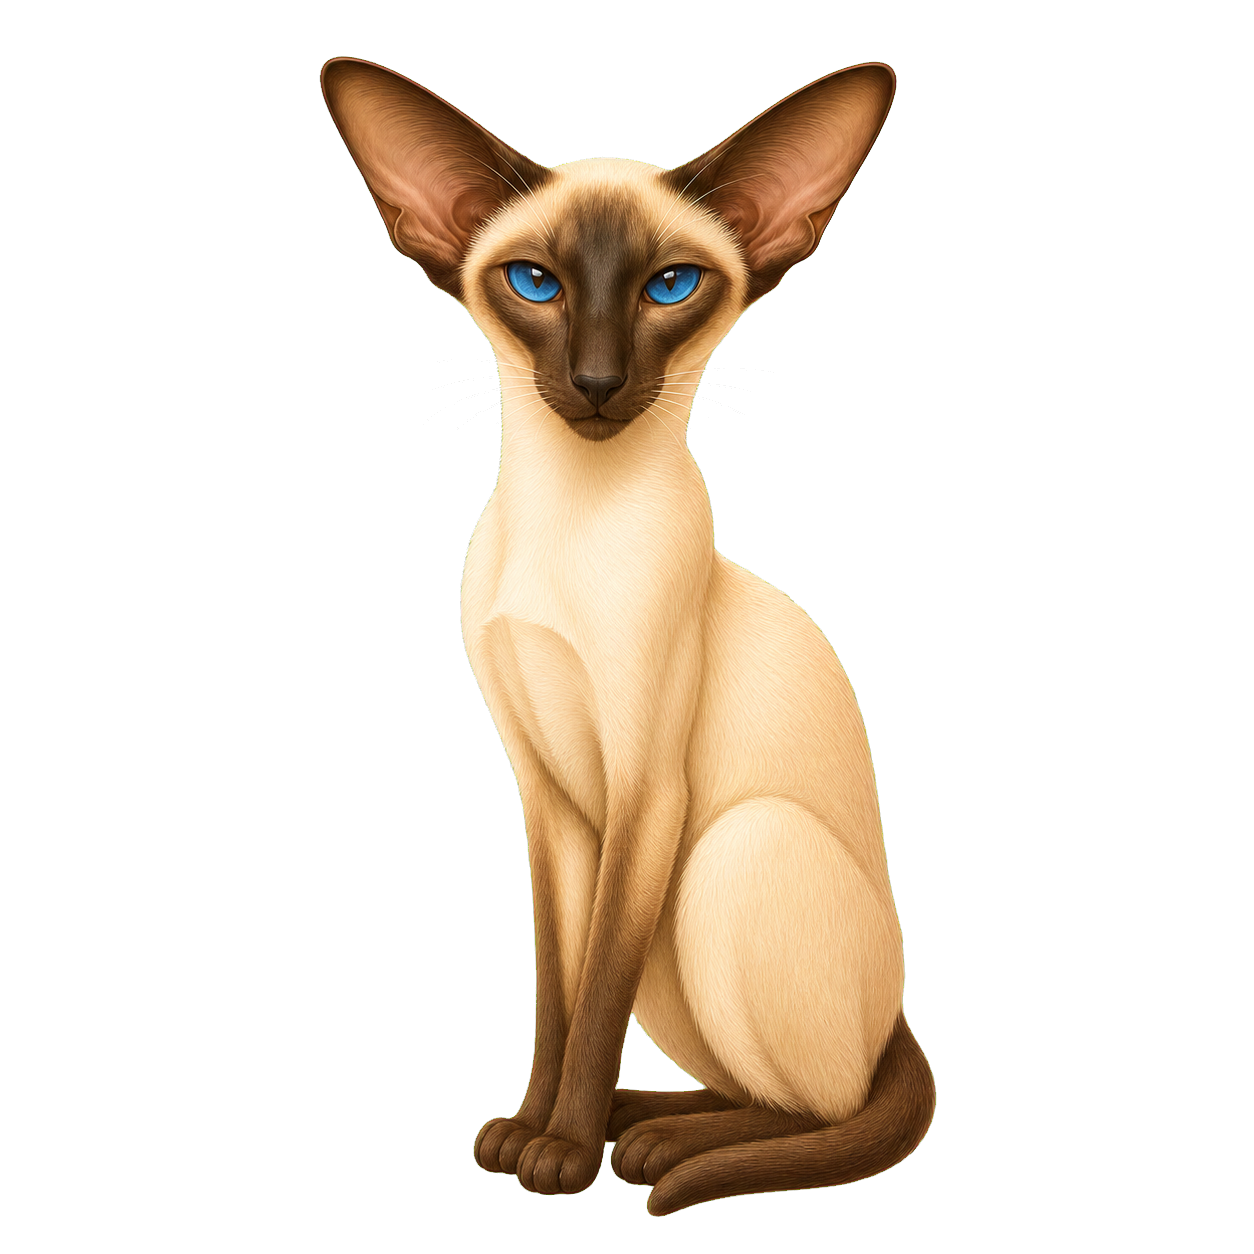
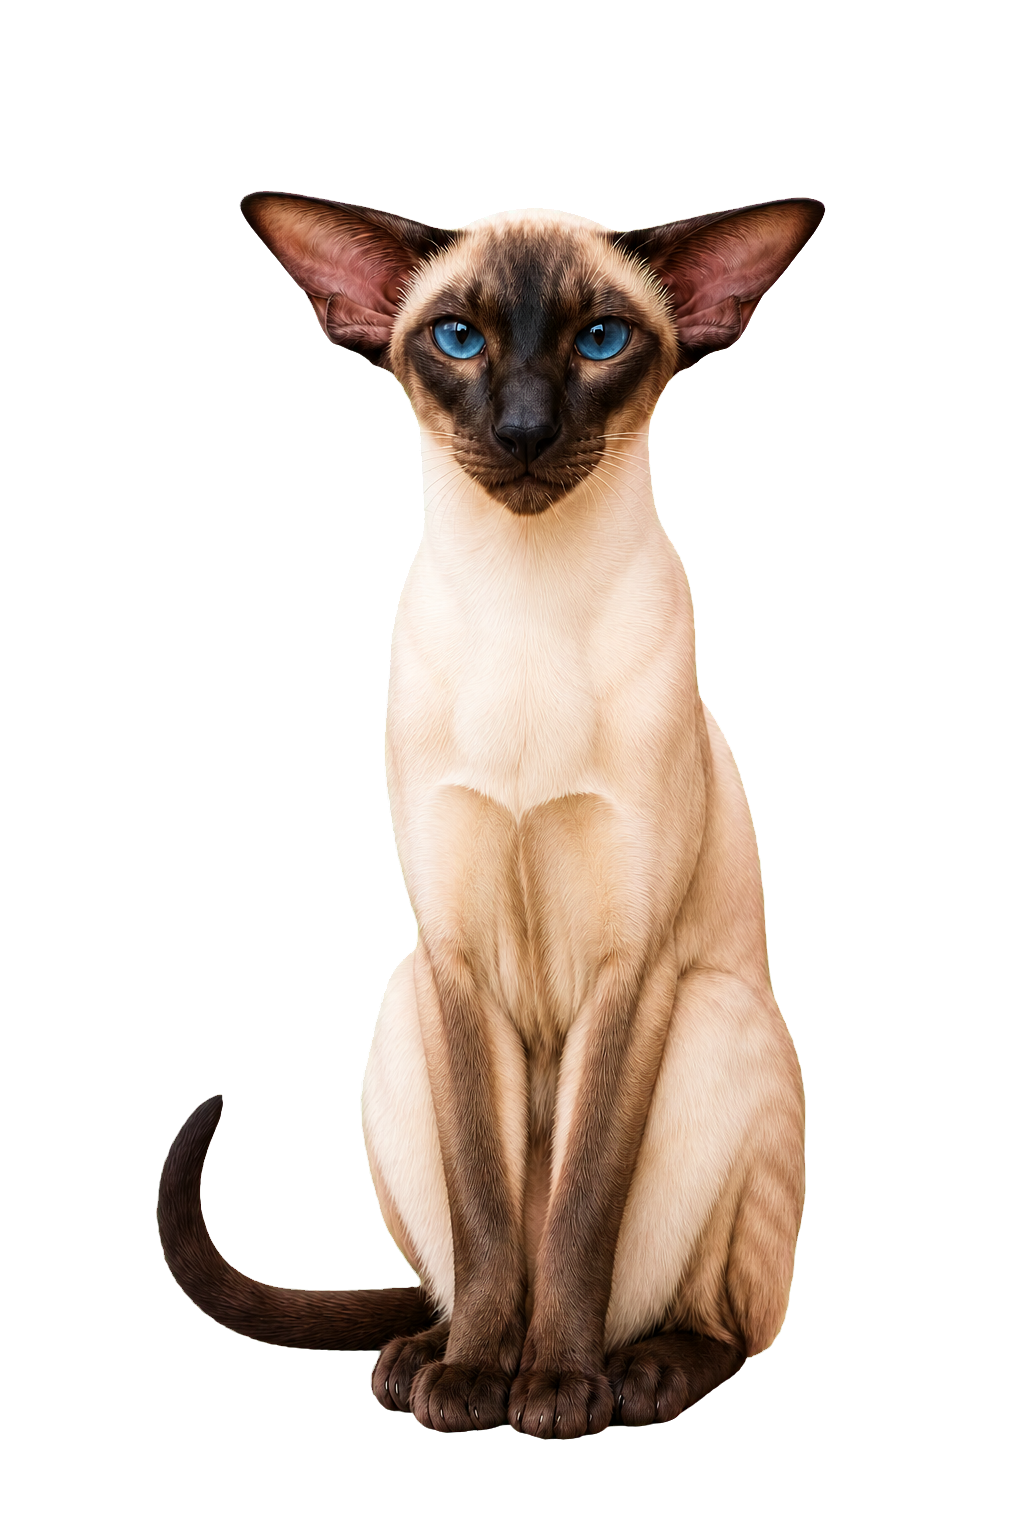
Update CatBreak page and download

Changed region(s): [[0.1562, 0.0311, 0.8125, 0.9641]]

diff --git a/catbreak/index.html b/catbreak/index.html
@@ -135,7 +135,7 @@
                     <article class="card"><div class="icon">▣</div><h3>大猫露脸</h3><p>休息时每个屏幕都会出现大大的猫咪和倒计时，提醒你真的该离开座位了。</p></article>
                     <article class="card"><div class="icon">↯</div><h3>随手召唤</h3><p>想主动休息时，可以从菜单栏把猫猫叫出来，提前给自己一个小空档。</p></article>
                     <article class="card"><div class="icon">⌫</div><h3>留好出口</h3><p>临时有事时可以中断休息，也可以按 Esc 或 Command + . 立刻回到电脑前。</p></article>
-                    <article class="card"><div class="icon">猫</div><h3>八只值班猫</h3><p>内置泰格、丽丽、大橘、Rose、冰冰、基基、牛牛、托托。今天想让谁来喊你，就在菜单里切换。</p></article>
+                    <article class="card"><div class="icon">猫</div><h3>九只值班猫</h3><p>内置泰格、丽丽、大橘、Rose、冰冰、基基、牛牛、托托、英俊。今天想让谁来喊你，就在菜单里切换。</p></article>
                     <article class="card"><div class="icon">⌘</div><h3>安静蹲栏</h3><p>没有 Dock 图标和主窗口，状态栏直接显示工作、休息、暂停和剩余时间。</p></article>
                 </div>
             </div>
@@ -153,7 +153,7 @@
         </section>
         <section id="cats">
             <div class="container">
-                <div class="note"><h2>一个 CatBreak，八只值班猫</h2><p>泰格、丽丽、大橘、Rose、冰冰、基基、牛牛、托托都住在同一个 App 里，今天谁上班，菜单里说了算。</p></div>
+                <div class="note"><h2>一个 CatBreak，九只值班猫</h2><p>泰格、丽丽、大橘、Rose、冰冰、基基、牛牛、托托、英俊都住在同一个 App 里，今天谁上班，菜单里说了算。</p></div>
                 <div class="cat-list" style="margin-top:18px">
                     <div class="cat-card"><div class="cat-avatar"><img src="assets/taige-sturdy.png" alt="泰格"></div><h3>泰格</h3><p>默认出场，稳稳把你带去休息。</p></div>
                     <div class="cat-card"><div class="cat-avatar"><img src="assets/lili.png" alt="丽丽"></div><h3>丽丽</h3><p>温柔出爪，轻轻提醒你眨眨眼。</p></div>
@@ -163,6 +163,7 @@
                     <div class="cat-card"><div class="cat-avatar"><img src="assets/kiki.png" alt="基基"></div><h3>基基</h3><p>大耳朵、小胡子，认真问你还要不要继续坐着。</p></div>
                     <div class="cat-card"><div class="cat-avatar"><img src="assets/niuniu.png" alt="牛牛"></div><h3>牛牛</h3><p>黑白小东短，呆呆看着你：还不休息吗？</p></div>
                     <div class="cat-card"><div class="cat-avatar"><img src="assets/tuotuo.png" alt="托托"></div><h3>托托</h3><p>奶橘色东短，回头一看就把你喊走。</p></div>
+                    <div class="cat-card"><div class="cat-avatar"><img src="assets/yingjun.png" alt="英俊"></div><h3>英俊</h3><p>奶白小圆脸，认真看着你：该躺下的是你。</p></div>
                 </div>
                 <div class="support-card" id="custom-cat">
                     <div>